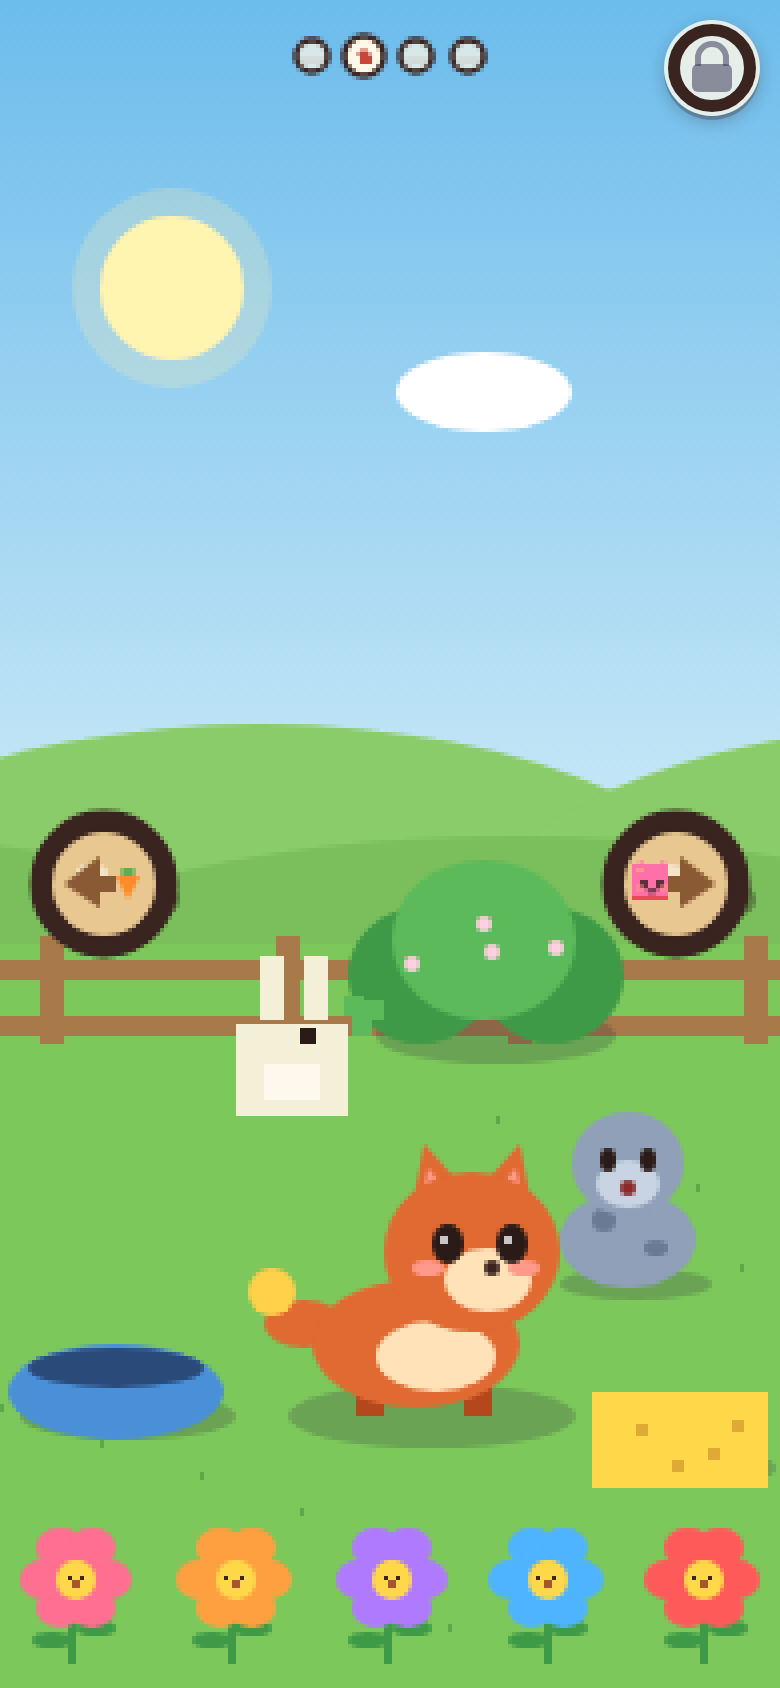
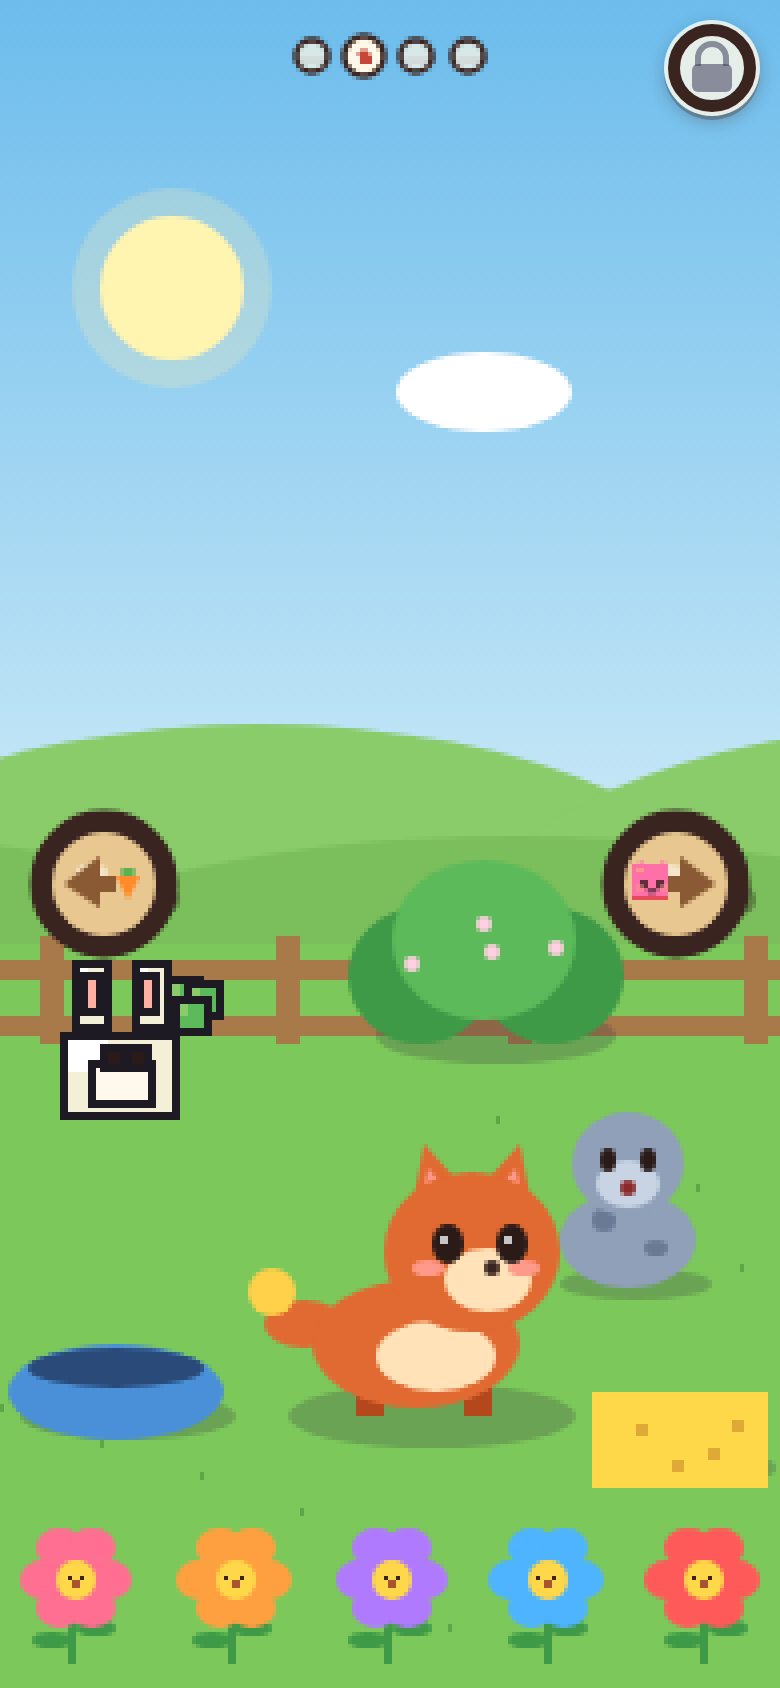
LR-WORLD-4: Keep the bunny and the woolly readable.
The crowded Meadow and Barn Yard were shrinking those two into the grass. They now keep a full silhouette, a dark outline, and a light edge on the upper left, and they rest on the hill when the grass is full.

Changed region(s): [[0.0615, 0.5545, 0.4923, 0.6777]]

diff --git a/games/little-ranch/feel.js b/games/little-ranch/feel.js
@@ -2,13 +2,19 @@
 (function () {
   if (!window.LR) return;
   const LIFE = [
-    { area: 0, animal: 'bird', prop: 'berry', day: '#e8483c', night: '#8a2a24', belly: '#fff0d8', propDay: '#c8453a', propNight: '#8a2a24' },
-    { area: 1, animal: 'bunny', prop: 'clover', day: '#f4f0d8', night: '#8a8aa0', belly: '#fff8ec', propDay: '#5cba5a', propNight: '#1e3a36' },
-    { area: 2, animal: 'chick', prop: 'block', day: '#ffd03a', night: '#c8902a', belly: '#fff3a0', propDay: '#4fa6ff', propNight: '#2a3a68' },
-    { area: 3, animal: 'woolly', prop: 'pail', day: '#fff8ec', night: '#b8ab98', belly: '#f4ead8', propDay: '#8a5a34', propNight: '#5a3a24' }
+    { area: 0, animal: 'bird', prop: 'berry', day: '#e8483c', night: '#8a2a24', belly: '#fff0d8', shine: '#ff9a8a', shineNight: '#c8453a', propDay: '#c8453a', propNight: '#8a2a24' },
+    { area: 1, animal: 'bunny', prop: 'clover', day: '#f4f0d8', night: '#8a8aa0', belly: '#fff8ec', shine: '#ffffff', shineNight: '#c8d4e4', propDay: '#5cba5a', propNight: '#1e3a36' },
+    { area: 2, animal: 'chick', prop: 'block', day: '#ffd03a', night: '#c8902a', belly: '#fff3a0', shine: '#fff4b0', shineNight: '#ffd03a', propDay: '#4fa6ff', propNight: '#2a3a68' },
+    { area: 3, animal: 'woolly', prop: 'pail', day: '#fff8ec', night: '#b8ab98', belly: '#f4ead8', shine: '#ffffff', shineNight: '#e8e0d0', propDay: '#8a5a34', propNight: '#5a3a24' }
   ];
   LIFE.forEach(row => { row.pose = 'rest'; row.at = 0; row.greeted = false; row.spot = null; });
+  const INK = '#1e1a24';
   const cv = document.querySelector('#ranch');
+  function figure() {
+    const scale = LR.scale || 2;
+    const s = Math.max(28, Math.ceil(72 / scale));
+    return { s, r: s * .62 };
+  }
   const reduce = () => matchMedia('(prefers-reduced-motion: reduce)').matches;
   const night = () => LR.state.mode !== 'play' || LR.state.dusk > .55;
   let seen = -1, pending = false, lastT = 0, held = null;
@@ -46,8 +52,9 @@
   }
   function blocked(x, y, r, stop) {
     const L = LR.layout, U = L.U, W = cv.width, sx = x - stop;
-    if (sx - r < U * .2 || sx + r > W - U * .2) return true;
-    if (y - r < 10 || y + r > cv.height - 4) return true;
+    const ay = L.ground - U * .08;
+    if (Math.abs(y - ay) < U * .175 + r && (sx - r < U * .2 || sx + r > W - U * .2)) return true;
+    if (y - r < 8 || y + r > cv.height - 4) return true;
     const lock = 56 / (LR.scale || 2);
     if (sx + r > W - lock && y - r < lock) return true;
     if (Math.hypot(sx - W * .12, y - (L.ground + U * .45)) < r + 8) return true;
@@ -55,27 +62,35 @@
     const samples = [.4, .5, .62, .74, .84];
     for (let i = 0; i < samples.length; i++) if (Math.hypot(sx - W * samples[i], y - ySwipe) < r + 4) return true;
     if (Math.hypot(sx - W * .22, y - cv.height * .17) < Math.max(U * .16, L.R) + r) return true;
+    if (L.here && L.here.length) {
+      const top = L.here[0].y, left = L.here[0].x, right = L.here[L.here.length - 1].x;
+      if (y < top + r + U * .04 && sx > left - r - 6 && sx < right + r + 6) return true;
+    }
     const z = L.size, by = L.home.y + z * .06, marks = [LR.state.baby.x + z * .9, LR.state.baby.x - z * 1.4];
-    if (LR.state.friend) marks.push(LR.state.friend.x + z * .9, LR.state.friend.x - z * 1.4);
-    for (let i = 0; i < marks.length; i++) if (Math.hypot(x - marks[i], y - by) < r + z * .5) return true;
+    for (let i = 0; i < marks.length; i++) if (Math.hypot(x - marks[i], y - by) < 12) return true;
     return !clear(x, y, r);
   }
   function place(area) {
-    const L = LR.layout, U = L.U, stop = LR.world.areas[area].stop;
-    const want = U * .175, minR = 22 / (LR.scale || 2);
-    const bands = [[L.ground + U * .12, cv.height - 4], [L.ground - U * .02, L.ground + U * .1]];
-    for (let r = want; r >= minR - .1; r -= Math.max(2, U * .015)) {
-      const step = Math.max(8, r * .55);
-      for (let b = 0; b < bands.length; b++) {
-        for (let y = bands[b][0]; y < bands[b][1] && y < cv.height - r; y += step) {
-          for (let sx = U * .2 + r; sx <= cv.width - U * .2 - r; sx += step) {
-            const x = stop + sx;
-            if (!blocked(x, y, r, stop)) return { x, y, r };
-          }
+    const L = LR.layout, U = L.U, stop = LR.world.areas[area].stop, fit = figure(), r = fit.r, s = fit.s;
+    const skyTop = r + 8, skyBot = Math.max(skyTop + 4, L.ground - U * .32);
+    const hill = Math.max(skyTop, L.ground - s * .55);
+    const grassTop = L.ground + Math.max(U * .24, s);
+    const sky = [skyTop, skyBot], hillBand = [hill, hill + 4], grass = [grassTop, cv.height - 4];
+    const bands = LIFE[area].animal === 'bird' ? [sky, hillBand] : [hillBand, grass, sky];
+    const step = Math.max(6, r * .45);
+    for (let b = 0; b < bands.length; b++) {
+      for (let y = bands[b][0]; y <= bands[b][1]; y += step) {
+        for (let sx = r + 8; sx <= cv.width - r - 8; sx += step) {
+          const x = stop + sx;
+          if (!blocked(x, y, r, stop)) return { x, y, r, s };
         }
       }
     }
-    return null;
+    const y = Math.min(skyBot, Math.max(skyTop, L.ground * .34));
+    for (let sx = cv.width * .58; sx >= r + 8; sx -= step) {
+      if (!blocked(stop + sx, y, r * .8, stop)) return { x: stop + sx, y, r, s };
+    }
+    return { x: stop + cv.width * .58, y, r, s };
   }
   function worldPoint(e) {
     const src = (e.changedTouches && e.changedTouches[0]) || e;
@@ -126,48 +141,58 @@
   cv.addEventListener('touchend', up, true);
   cv.addEventListener('touchcancel', up, true);
 
-  function rect(x, y, w, h, colour) {
-    cx.fillStyle = colour;
-    cx.fillRect(Math.round(x), Math.round(y), Math.max(1, Math.round(w)), Math.max(1, Math.round(h)));
+  function block(x, y, w, h, fill, shine) {
+    const rx = Math.round(x), ry = Math.round(y), rw = Math.max(2, Math.round(w)), rh = Math.max(2, Math.round(h));
+    cx.fillStyle = INK;
+    cx.fillRect(rx - 2, ry - 2, rw + 4, rh + 4);
+    cx.fillStyle = fill;
+    cx.fillRect(rx, ry, rw, rh);
+    if (shine) { cx.fillStyle = shine; cx.fillRect(rx, ry, Math.max(1, Math.round(rw * .38)), Math.max(1, Math.round(rh * .42))); }
   }
   function animal(row, x, y, s) {
-    const dark = night(), body = dark ? row.night : row.day, belly = row.belly, eye = '#2a1a18';
+    const dark = night(), body = dark ? row.night : row.day, shine = dark ? row.shineNight : row.shine, eye = '#2a1a18';
     if (row.animal === 'bird') {
-      rect(x - s * .4, y - s * .2, s * .8, s * .55, body);
-      rect(x - s * .05, y - s * .5, s * .4, s * .38, body);
-      rect(x + s * .28, y - s * .38, s * .22, s * .14, '#ffd03a');
-      rect(x - s * .15, y, s * .35, s * .2, belly);
+      block(x - s * .4, y - s * .2, s * .8, s * .55, body, shine);
+      block(x - s * .05, y - s * .52, s * .42, s * .4, body, shine);
+      block(x + s * .3, y - s * .38, s * .24, s * .14, '#ffd03a', '#fff4b0');
+      block(x - s * .16, y, s * .34, s * .2, row.belly, null);
+      block(x + s * .08, y - s * .4, s * .1, s * .1, eye, null);
     } else if (row.animal === 'bunny') {
-      rect(x - s * .22, y - s * .72, s * .16, s * .4, body);
-      rect(x + s * .08, y - s * .72, s * .16, s * .4, body);
-      rect(x - s * .36, y - s * .28, s * .72, s * .58, body);
-      rect(x - s * .18, y - s * .02, s * .36, s * .22, belly);
+      block(x - s * .28, y - s * .7, s * .16, s * .38, body, shine);
+      block(x + s * .12, y - s * .7, s * .16, s * .38, body, shine);
+      block(x - s * .22, y - s * .62, s * .06, s * .2, '#ffb0a0', null);
+      block(x + s * .16, y - s * .62, s * .06, s * .2, '#ffb0a0', null);
+      block(x - s * .36, y - s * .22, s * .72, s * .5, body, shine);
+      block(x - s * .18, y - s * .02, s * .36, s * .22, row.belly, null);
+      block(x - s * .1, y - s * .12, s * .08, s * .08, eye, null);
+      block(x + s * .08, y - s * .12, s * .08, s * .08, eye, null);
     } else if (row.animal === 'chick') {
-      rect(x - s * .36, y - s * .32, s * .72, s * .62, body);
-      rect(x + s * .2, y - s * .08, s * .22, s * .14, '#e8483c');
-      rect(x - s * .06, y - s * .48, s * .18, s * .16, '#e8483c');
-      rect(x - s * .2, y + s * .26, s * .12, s * .1, '#c8902a');
-      rect(x + s * .08, y + s * .26, s * .12, s * .1, '#c8902a');
+      block(x - s * .38, y - s * .34, s * .76, s * .64, body, shine);
+      block(x + s * .22, y - s * .08, s * .24, s * .16, '#e8483c', '#ff9a8a');
+      block(x - s * .08, y - s * .5, s * .2, s * .18, '#e8483c', '#ff9a8a');
+      block(x - s * .22, y + s * .26, s * .14, s * .12, '#c8902a', null);
+      block(x + s * .08, y + s * .26, s * .14, s * .12, '#c8902a', null);
+      block(x + s * .02, y - s * .16, s * .1, s * .1, eye, null);
     } else {
-      rect(x - s * .4, y - s * .32, s * .8, s * .58, body);
-      rect(x - s * .22, y - s * .08, s * .28, s * .2, belly);
-      rect(x - s * .28, y + s * .22, s * .12, s * .14, '#5a3a24');
-      rect(x + s * .14, y + s * .22, s * .12, s * .14, '#5a3a24');
+      block(x - s * .4, y - s * .28, s * .8, s * .52, body, shine);
+      block(x - s * .2, y - s * .06, s * .28, s * .22, row.belly, null);
+      block(x - s * .28, y + s * .2, s * .12, s * .14, '#5a3a24', null);
+      block(x + s * .14, y + s * .2, s * .12, s * .14, '#5a3a24', null);
+      block(x - s * .08, y - s * .14, s * .08, s * .08, eye, null);
+      block(x + s * .08, y - s * .14, s * .08, s * .08, eye, null);
     }
-    if (dark) rect(x + s * .02, y - s * .22, s * .16, s * .05, eye);
-    else rect(x + s * .04, y - s * .24, s * .1, s * .1, eye);
   }
   function prop(row, x, y, s, hop) {
     const colour = night() ? row.propNight : row.propDay;
-    const px = x + s * .34, py = y + s * .02 - hop * 1.6;
-    if (row.prop === 'berry' || row.prop === 'block') rect(px, py, s * .28, s * .28, colour);
+    const px = x + s * .36, py = y + s * .02 - hop * 1.4;
+    if (row.prop === 'berry' || row.prop === 'block') block(px, py, s * .3, s * .3, colour, null);
     else if (row.prop === 'clover') {
-      rect(px, py, s * .14, s * .14, colour);
-      rect(px + s * .12, py + s * .02, s * .14, s * .14, colour);
-      rect(px + s * .04, py + s * .14, s * .14, s * .14, colour);
+      block(px, py, s * .16, s * .16, colour, '#8acb6a');
+      block(px + s * .12, py + s * .02, s * .16, s * .16, colour, '#8acb6a');
+      block(px + s * .04, py + s * .14, s * .16, s * .16, colour, '#8acb6a');
     } else {
-      rect(px, py, s * .26, s * .2, colour);
-      rect(px + s * .06, py - s * .1, s * .14, s * .1, colour);
+      block(px, py, s * .28, s * .22, colour, '#c8955a');
+      block(px + s * .06, py - s * .12, s * .16, s * .12, colour, '#c8955a');
     }
   }
   let cx;
@@ -180,7 +205,7 @@
     cx.setTransform(1, 0, 0, 1, 0, 0);
     const row = LIFE[LR.camera.area], spot = row && row.spot;
     if (spot) {
-      const s = Math.min(LR.layout.U * .2, spot.r * 1.15), hop = lift(row);
+      const s = spot.s || figure().s, hop = lift(row);
       const x = spot.x - LR.camera.x, y = spot.y - hop;
       animal(row, x, y, s);
       prop(row, x, y, s, hop);
@@ -195,7 +220,7 @@
     return frame(function (t) { fn(t); paint(); });
   };
   window.LRFeel = {
-    rows: () => LIFE.map(row => ({ area: row.area, animal: row.animal, prop: row.prop, pose: row.pose, greeted: row.greeted, spot: row.spot, lift: lift(row) })),
+    rows: () => LIFE.map(row => ({ area: row.area, animal: row.animal, prop: row.prop, pose: row.pose, greeted: row.greeted, spot: row.spot, lift: lift(row), span: row.spot ? row.spot.s : 0 })),
     spot: area => place(area),
     paint
   };

diff --git a/tests/little-ranch-feel.html b/tests/little-ranch-feel.html
@@ -33,6 +33,15 @@ document.querySelector('#run').onclick = async () => {
         check(`${width}×${height} ${names[area]}: the animal is there and the tap is at least 44 px`, !!spot && css >= 44 && LR.camera.area === area);
       }
     }
+    for (const [width, height] of [[1024, 768], [320, 480], [667, 375], [1280, 800], [375, 812]]) {
+      frame.style.width = width + 'px'; frame.style.height = height + 'px'; await sleep(160);
+      for (const area of [1, 3]) {
+        LR.go(area); LR.advance(.4);
+        const spot = w.LRFeel.spot(area);
+        const span = spot ? spot.s : 0;
+        check(`${width}×${height} ${names[area]}: the animal stays big enough to read`, !!spot && span >= 24 && span * LR.scale >= 56);
+      }
+    }
     frame.style.width = '1280px'; frame.style.height = '800px'; await sleep(160);
     LR.newVisit(); LR.advance(.2);
     const home = w.LRFeel.rows()[1];
